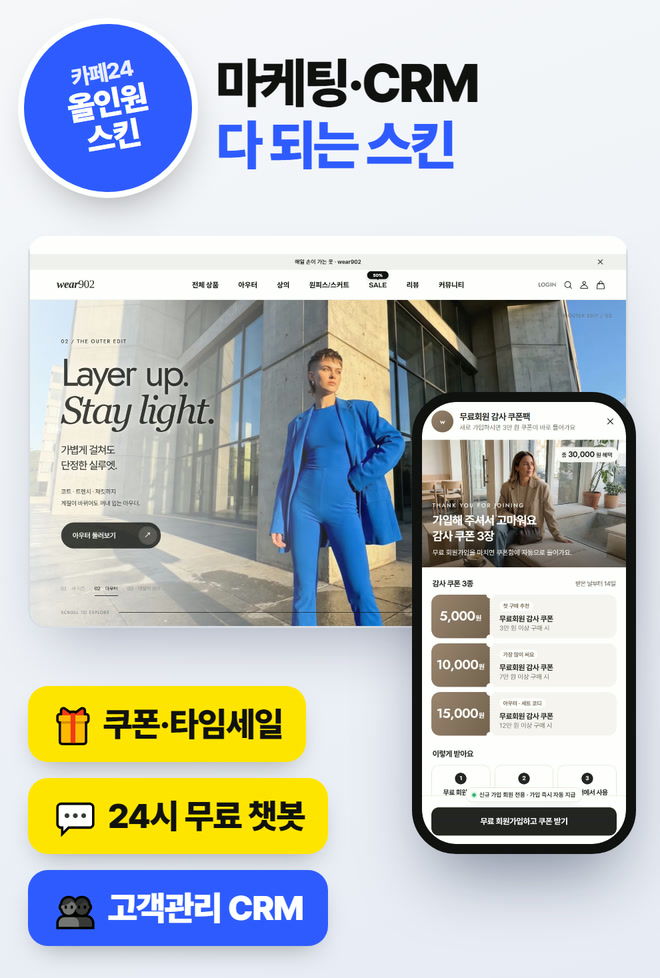
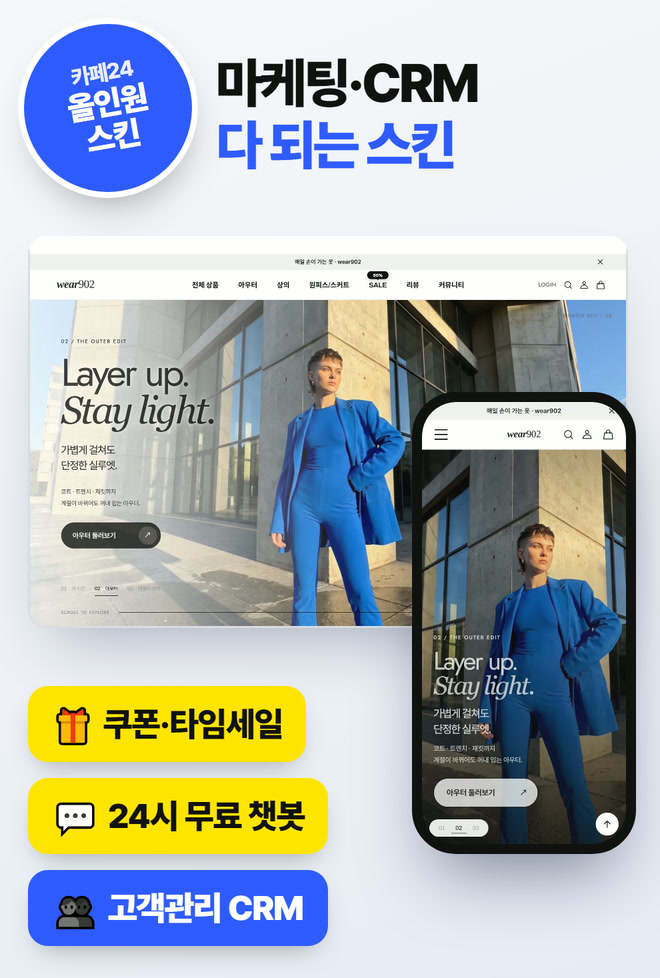
디자인센터 등록 이미지 v3 : 휴대폰도 PC 와 같은 블루 수트 장면 (모델이 가운데 오게 사진 위치 47%)

Changed region(s): [[0.6364, 0.3988, 0.9697, 0.8896]]

diff --git a/docs/tools/designcenter/feature-shots.js b/docs/tools/designcenter/feature-shots.js
@@ -88,6 +88,15 @@ const shots = {
     await pg.evaluate(y => window.scrollTo(0, y), Math.round(t.y + t.height * 0.38)); await sleep(2500);
   },
   // 휴대폰은 첫 화면 · 팝업과 다른 장면 (같은 트렌치 모델이 되풀이되지 않게) : 상의 목록
+  // 등록 이미지용 : PC 와 같은 2번 장면(블루 수트)을 휴대폰으로
+  'home-mobile-2': async pg => {
+    await open(pg, '/', MOBILE); await noFloat(pg);
+    const t = await rect(pg, '.pe-hero-track');
+    await pg.evaluate(y => window.scrollTo(0, y), Math.round(t.y + t.height * (+process.env.F || 0.38))); await sleep(2500);
+    // 휴대폰은 모델이 왼쪽 끝에 잘려서, 사진 보이는 자리만 모델 쪽으로 옮긴다 (사장님이 편집에서 정하는 값과 같은 것)
+    await pg.evaluate(pos => document.querySelectorAll('.pe-world-image').forEach(e => e.style.setProperty('object-position', pos, 'important')), process.env.POS || '47% 50%');
+    await pg.addStyleTag({ content: '.s9-float,#s9Float,.wh-fab,.wh-hint,[class*="s9-float"]{display:none!important}' }); await sleep(800);
+  },
   'home-mobile': async pg => { await open(pg, '/product/list.html?cate_no=25', MOBILE); },
 
   /* 1. 무료회원 웰컴 쿠폰팩 : 플로팅 쿠폰 버튼 → 작은 창 */

diff --git a/docs/tools/designcenter/listing-v3.js b/docs/tools/designcenter/listing-v3.js
@@ -27,7 +27,7 @@ body{overflow:hidden;font-family:Pretendard,'Malgun Gothic',sans-serif;letter-sp
 const B = [['🎁', '쿠폰·타임세일', 'y'], ['💬', '24시 무료 챗봇', 'y'], ['👥', '고객관리 CRM', 'b']];
 const sticker = (x, y, d, f) => `<div class="st" style="left:${x}px;top:${y}px;width:${d}px;height:${d}px;font-size:${f}px"><span><small style="font-size:${Math.round(f * .68)}px">카페24</small>올인원<br>스킨</span></div>`;
 const pc = (x, y, w) => `<div class="pc" style="left:${x}px;top:${y}px;width:${w}px"><img src="${img('home-pc')}"></div>`;
-const ph = (x, y, w) => `<div class="ph" style="left:${x}px;top:${y}px;width:${w}px"><img src="${img('welcome-page')}"></div>`;
+const ph = (x, y, w) => `<div class="ph" style="left:${x}px;top:${y}px;width:${w}px"><img src="${img('home-mobile-2')}"></div>`;
 
 const V = {
   // 대표 (정사각형) : 위 제목 · 가운데 PC + 휴대폰 · 아래 배지 한 줄
